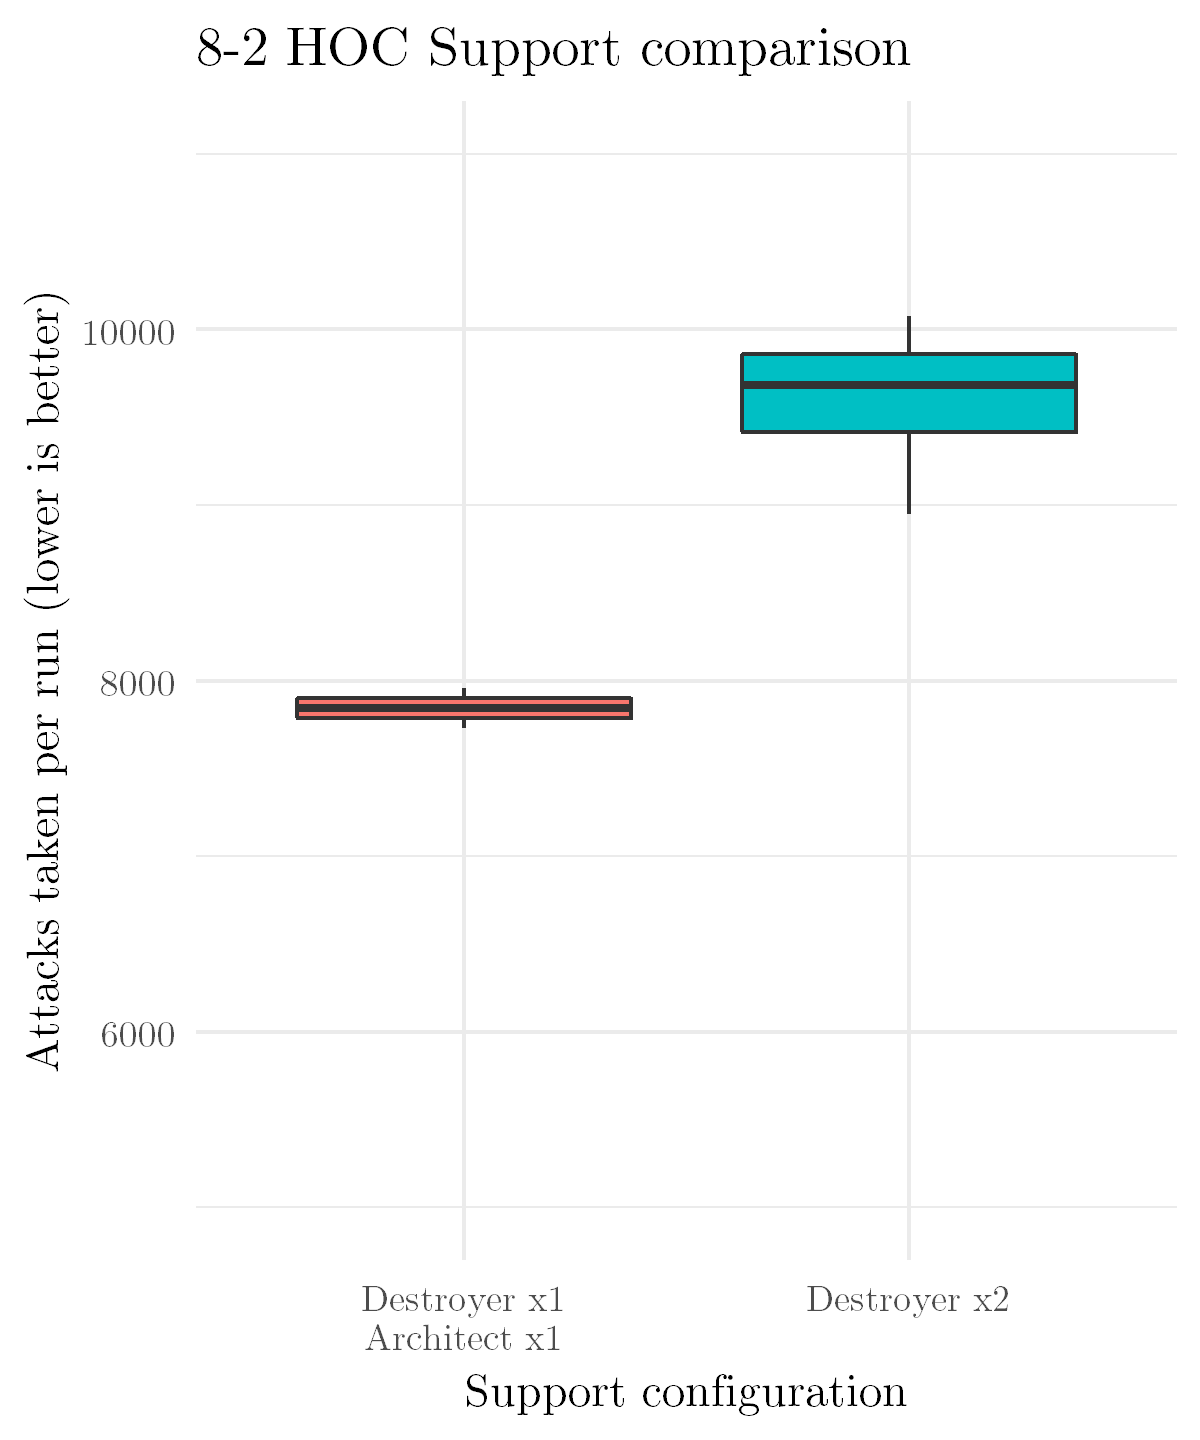
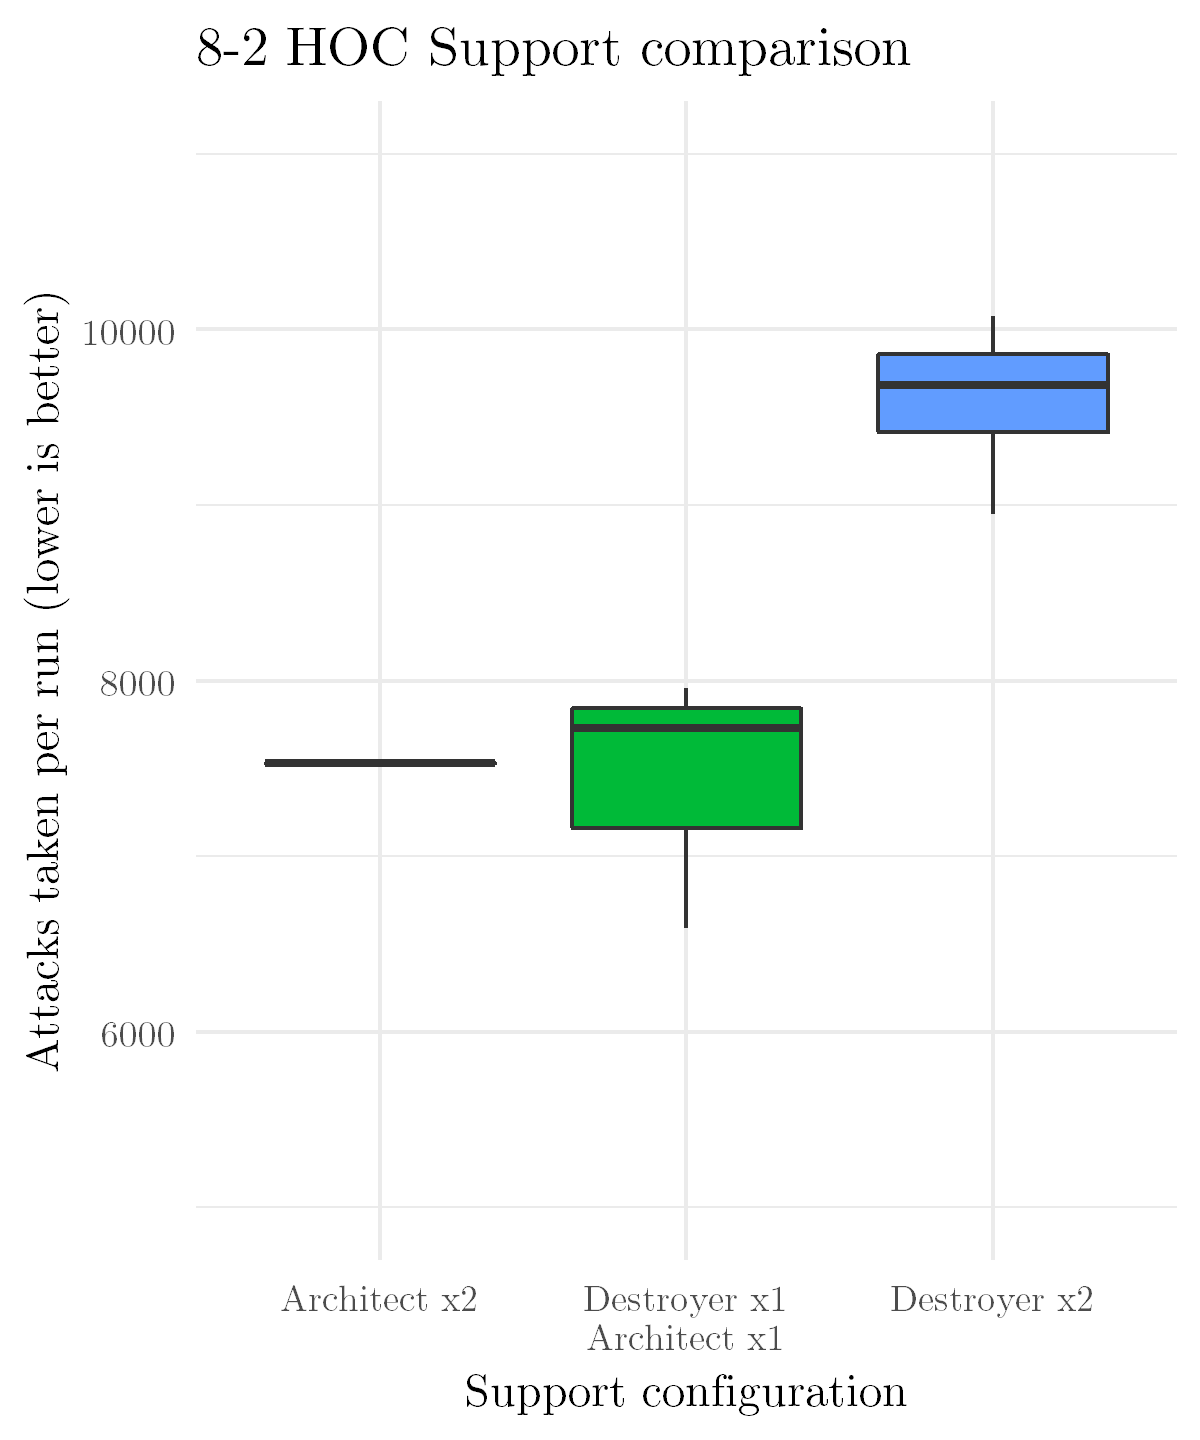
Updated Architect 8-2 data

diff --git a/pages/8-2.html b/pages/8-2.html
@@ -124,7 +124,7 @@ gtag('config', 'G-805N997DPC');
 </p>
 
 <p>
-	Double Architect data will be added once another friend or two of mine switches their support to her.
+	More double Architect data will be added over time.
 </p>
 
 <!-- Minimizing run time could be another thing, but I'm not going to intensely babysit the game for that long in order to make it a good comparison -->
